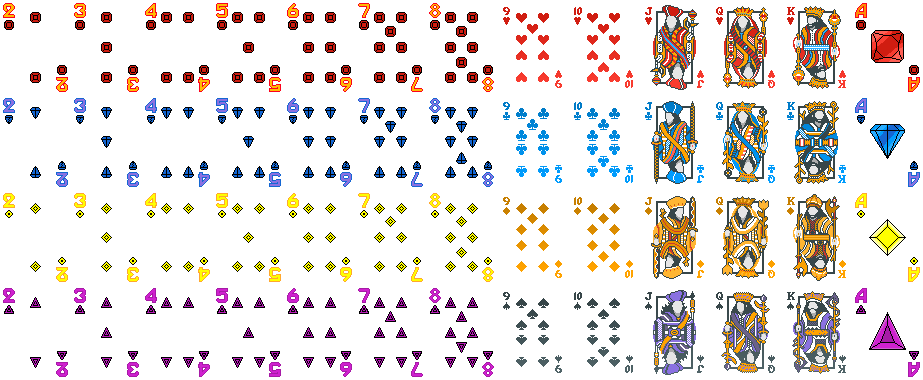
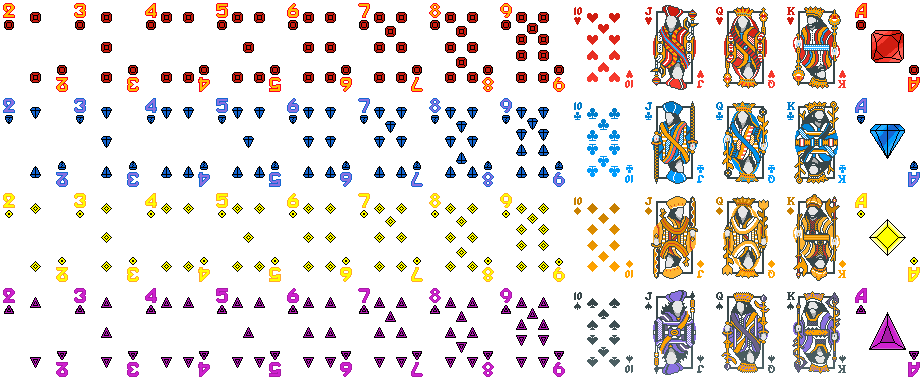
Add 9s

diff --git a/README.md b/README.md
@@ -14,7 +14,7 @@ Bejeweled-themed deck skin for Balatro
 4. If everything's fine, you are all set :D
 
 ## Progress
-![81%](https://progress-bar.xyz/81)
+![90%](https://progress-bar.xyz/90)
 - [x] Ace
 - [x] 2
 - [x] 3
@@ -23,7 +23,7 @@ Bejeweled-themed deck skin for Balatro
 - [x] 6
 - [x] 7
 - [x] 8
-- [ ] 9
+- [x] 9
 - [ ] 10
 - [x] Some enhancements (Wild, Bonus...)
 - [ ] Face Cards **_(no plans for now, excluded from percentage)_**
